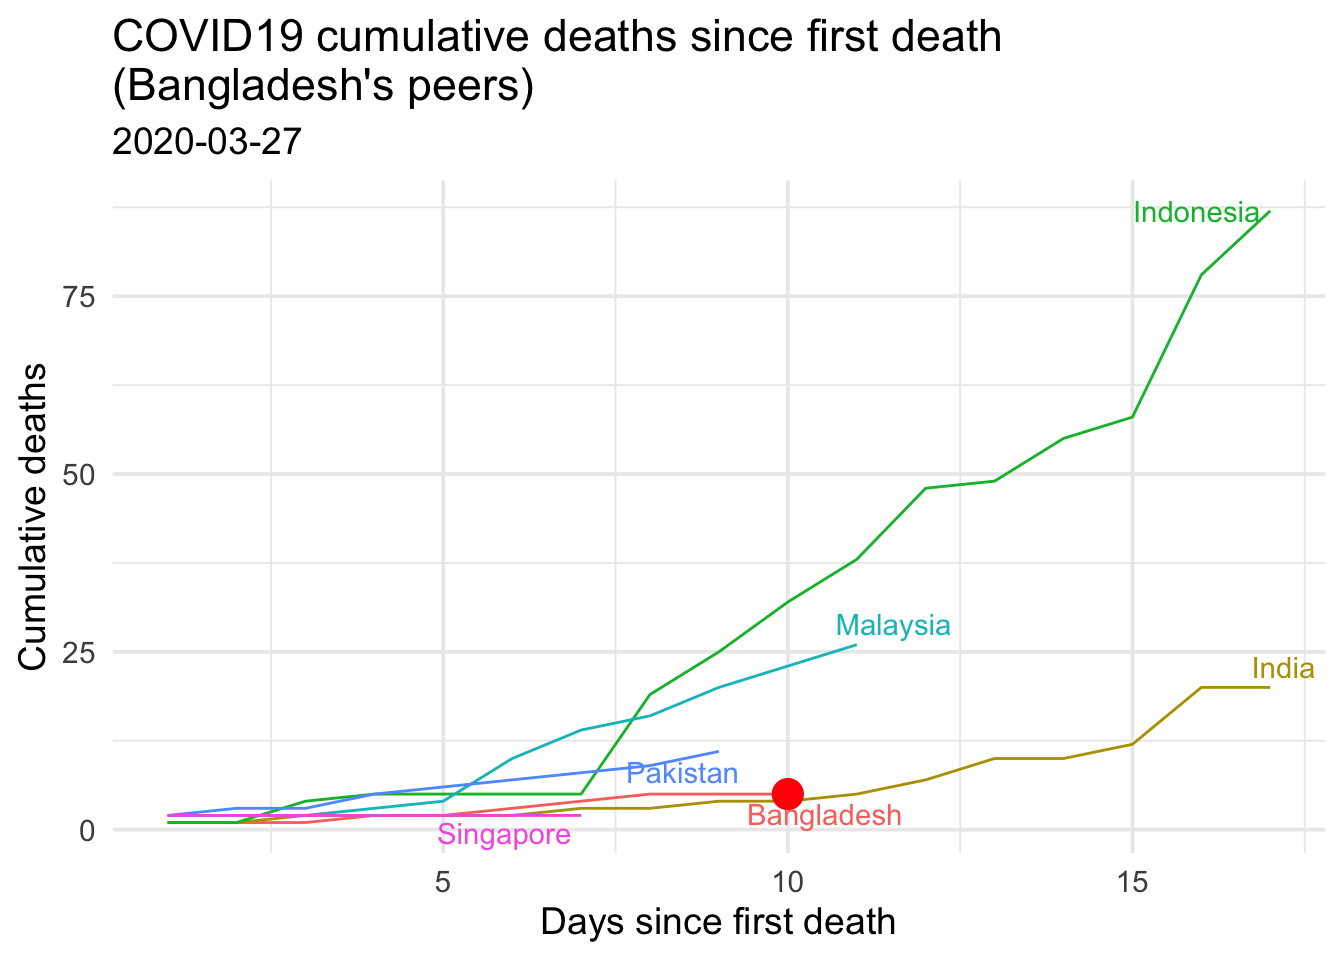
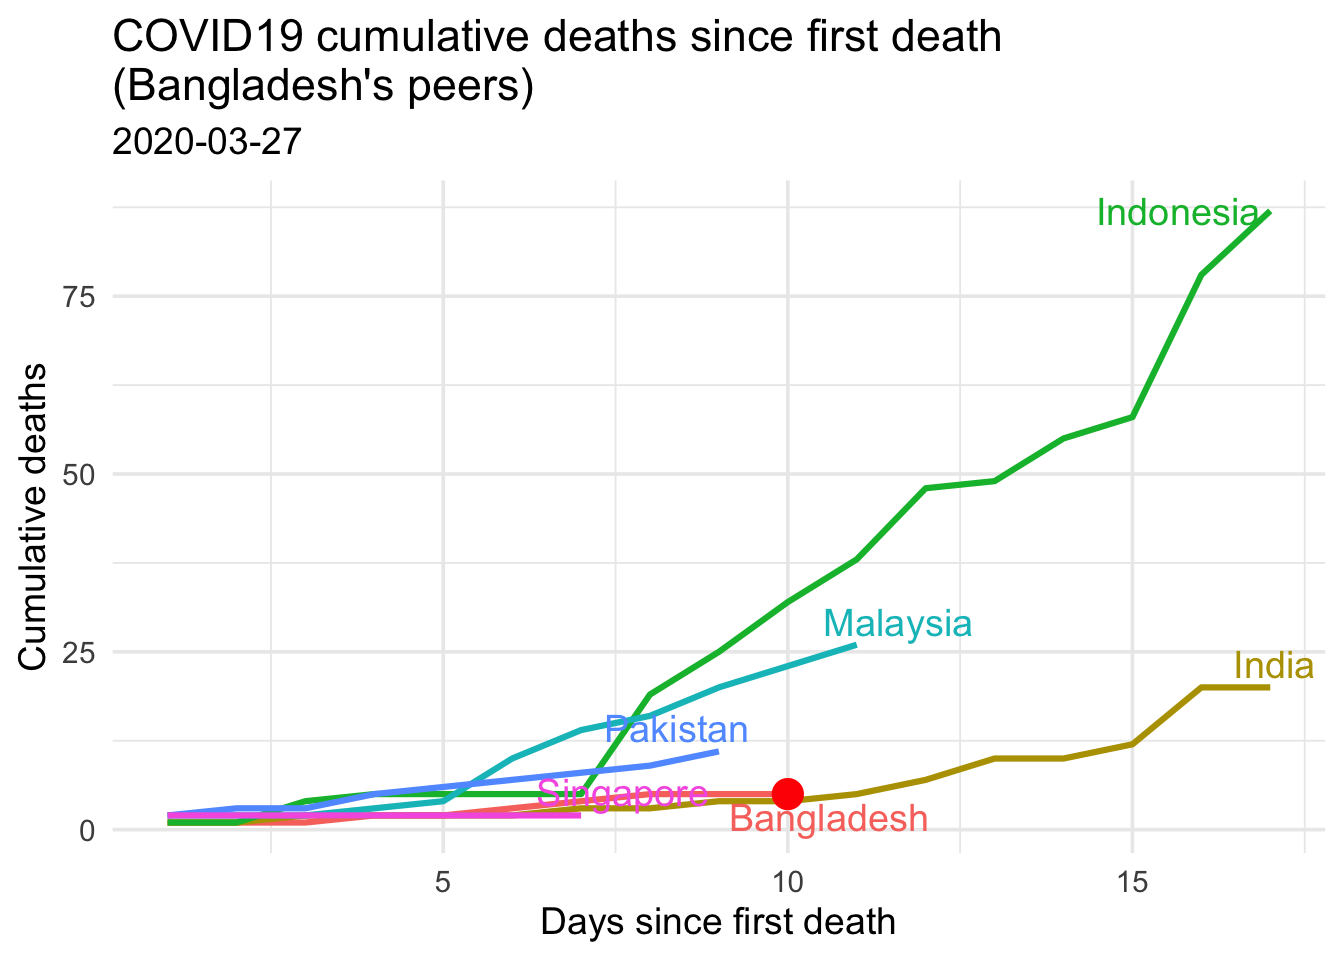
thickened lines and increased text size

diff --git a/public/index.html b/public/index.html
@@ -1013,7 +1013,7 @@
     
     
     <a href="/post/covid19-cumulative-deaths-since-first-death-bn/" >
-      <img src="/post/covid19-cumulative-deaths-since-first-death-bn/featured_hud6a767dbdddc432ae6a3425963d41629_266049_150x0_resize_q90_lanczos.jpg" alt="">
+      <img src="/post/covid19-cumulative-deaths-since-first-death-bn/featured_hud6a767dbdddc432ae6a3425963d41629_285450_150x0_resize_q90_lanczos.jpg" alt="">
     </a>
     
   </div>

diff --git a/public/post/index.html b/public/post/index.html
@@ -713,7 +713,7 @@
     
     
     <a href="/post/covid19-cumulative-deaths-since-first-death-bn/" >
-      <img src="/post/covid19-cumulative-deaths-since-first-death-bn/featured_hud6a767dbdddc432ae6a3425963d41629_266049_150x0_resize_q90_lanczos.jpg" alt="">
+      <img src="/post/covid19-cumulative-deaths-since-first-death-bn/featured_hud6a767dbdddc432ae6a3425963d41629_285450_150x0_resize_q90_lanczos.jpg" alt="">
     </a>
     
   </div>
